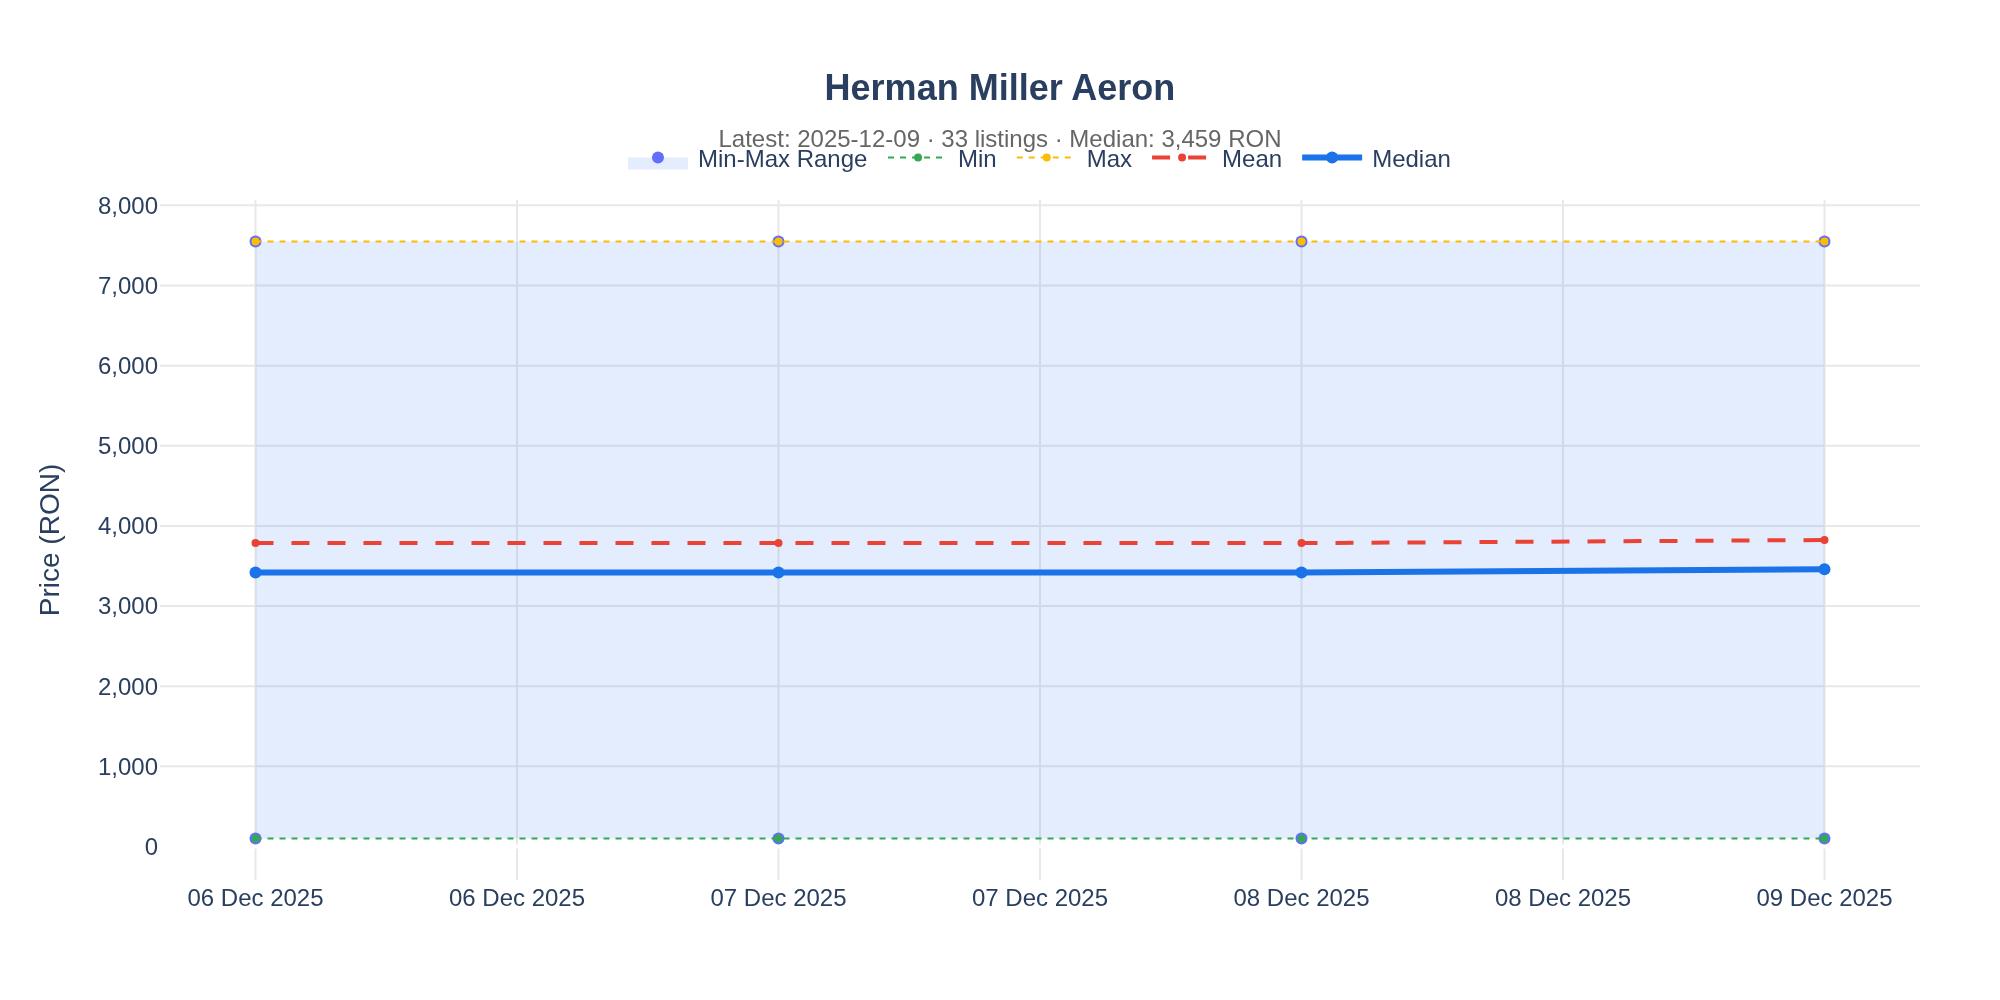
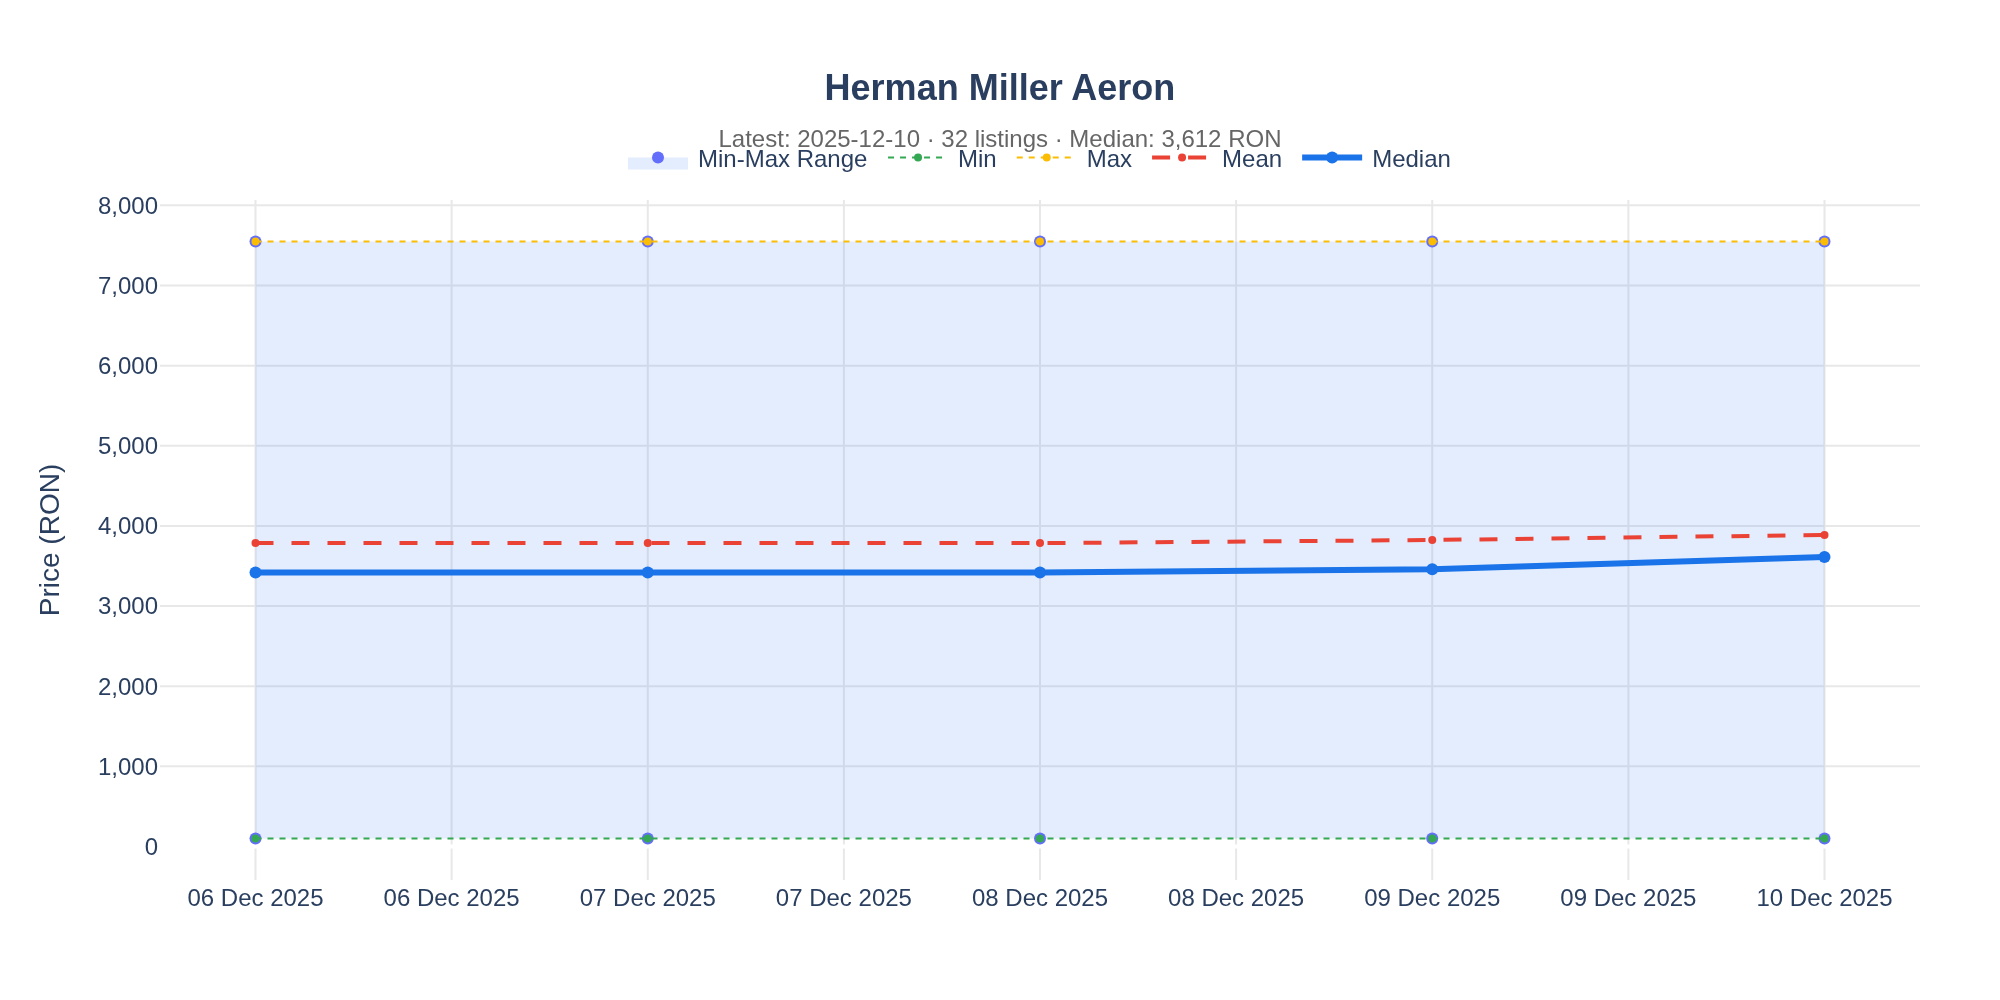
📊 Update: 2025-12-10

diff --git a/README.md b/README.md
@@ -2,28 +2,28 @@
 
 Daily price tracking for products on OLX.ro as a proxy for economic indicators.
 
-![Overview](https://raw.githubusercontent.com/FlorinPopaCodes/aeron-miller-index/main/images/overview.png?v=20251209)
+![Overview](https://raw.githubusercontent.com/FlorinPopaCodes/aeron-miller-index/main/images/overview.png?v=20251210)
 
 ---
 
 ## 🪑 Herman Miller Aeron
 
-![Herman Miller Aeron Dashboard](https://raw.githubusercontent.com/FlorinPopaCodes/aeron-miller-index/main/images/aeron-miller_dashboard.png?v=20251209)
+![Herman Miller Aeron Dashboard](https://raw.githubusercontent.com/FlorinPopaCodes/aeron-miller-index/main/images/aeron-miller_dashboard.png?v=20251210)
 
 | Metric | Value |
 |--------|-------|
-| Listings | 33 |
+| Listings | 32 |
 | Min | 100 RON |
 | Max | 7,549 RON |
-| Median | 3,459 RON |
-| Average | 3,824 RON |
-| Last Update | 2025-12-09 |
+| Median | 3,612 RON |
+| Average | 3,887 RON |
+| Last Update | 2025-12-10 |
 
 ---
 
 ## 🎧 Sony WH-1000XM5
 
-![Sony WH-1000XM5 Dashboard](https://raw.githubusercontent.com/FlorinPopaCodes/aeron-miller-index/main/images/sony-wh1000xm5_dashboard.png?v=20251209)
+![Sony WH-1000XM5 Dashboard](https://raw.githubusercontent.com/FlorinPopaCodes/aeron-miller-index/main/images/sony-wh1000xm5_dashboard.png?v=20251210)
 
 | Metric | Value |
 |--------|-------|
@@ -38,7 +38,7 @@ Daily price tracking for products on OLX.ro as a proxy for economic indicators.
 
 ## 🪑 Dyson Supersonic
 
-![Dyson Supersonic Dashboard](https://raw.githubusercontent.com/FlorinPopaCodes/aeron-miller-index/main/images/dyson-supersonic_dashboard.png?v=20251209)
+![Dyson Supersonic Dashboard](https://raw.githubusercontent.com/FlorinPopaCodes/aeron-miller-index/main/images/dyson-supersonic_dashboard.png?v=20251210)
 
 | Metric | Value |
 |--------|-------|
